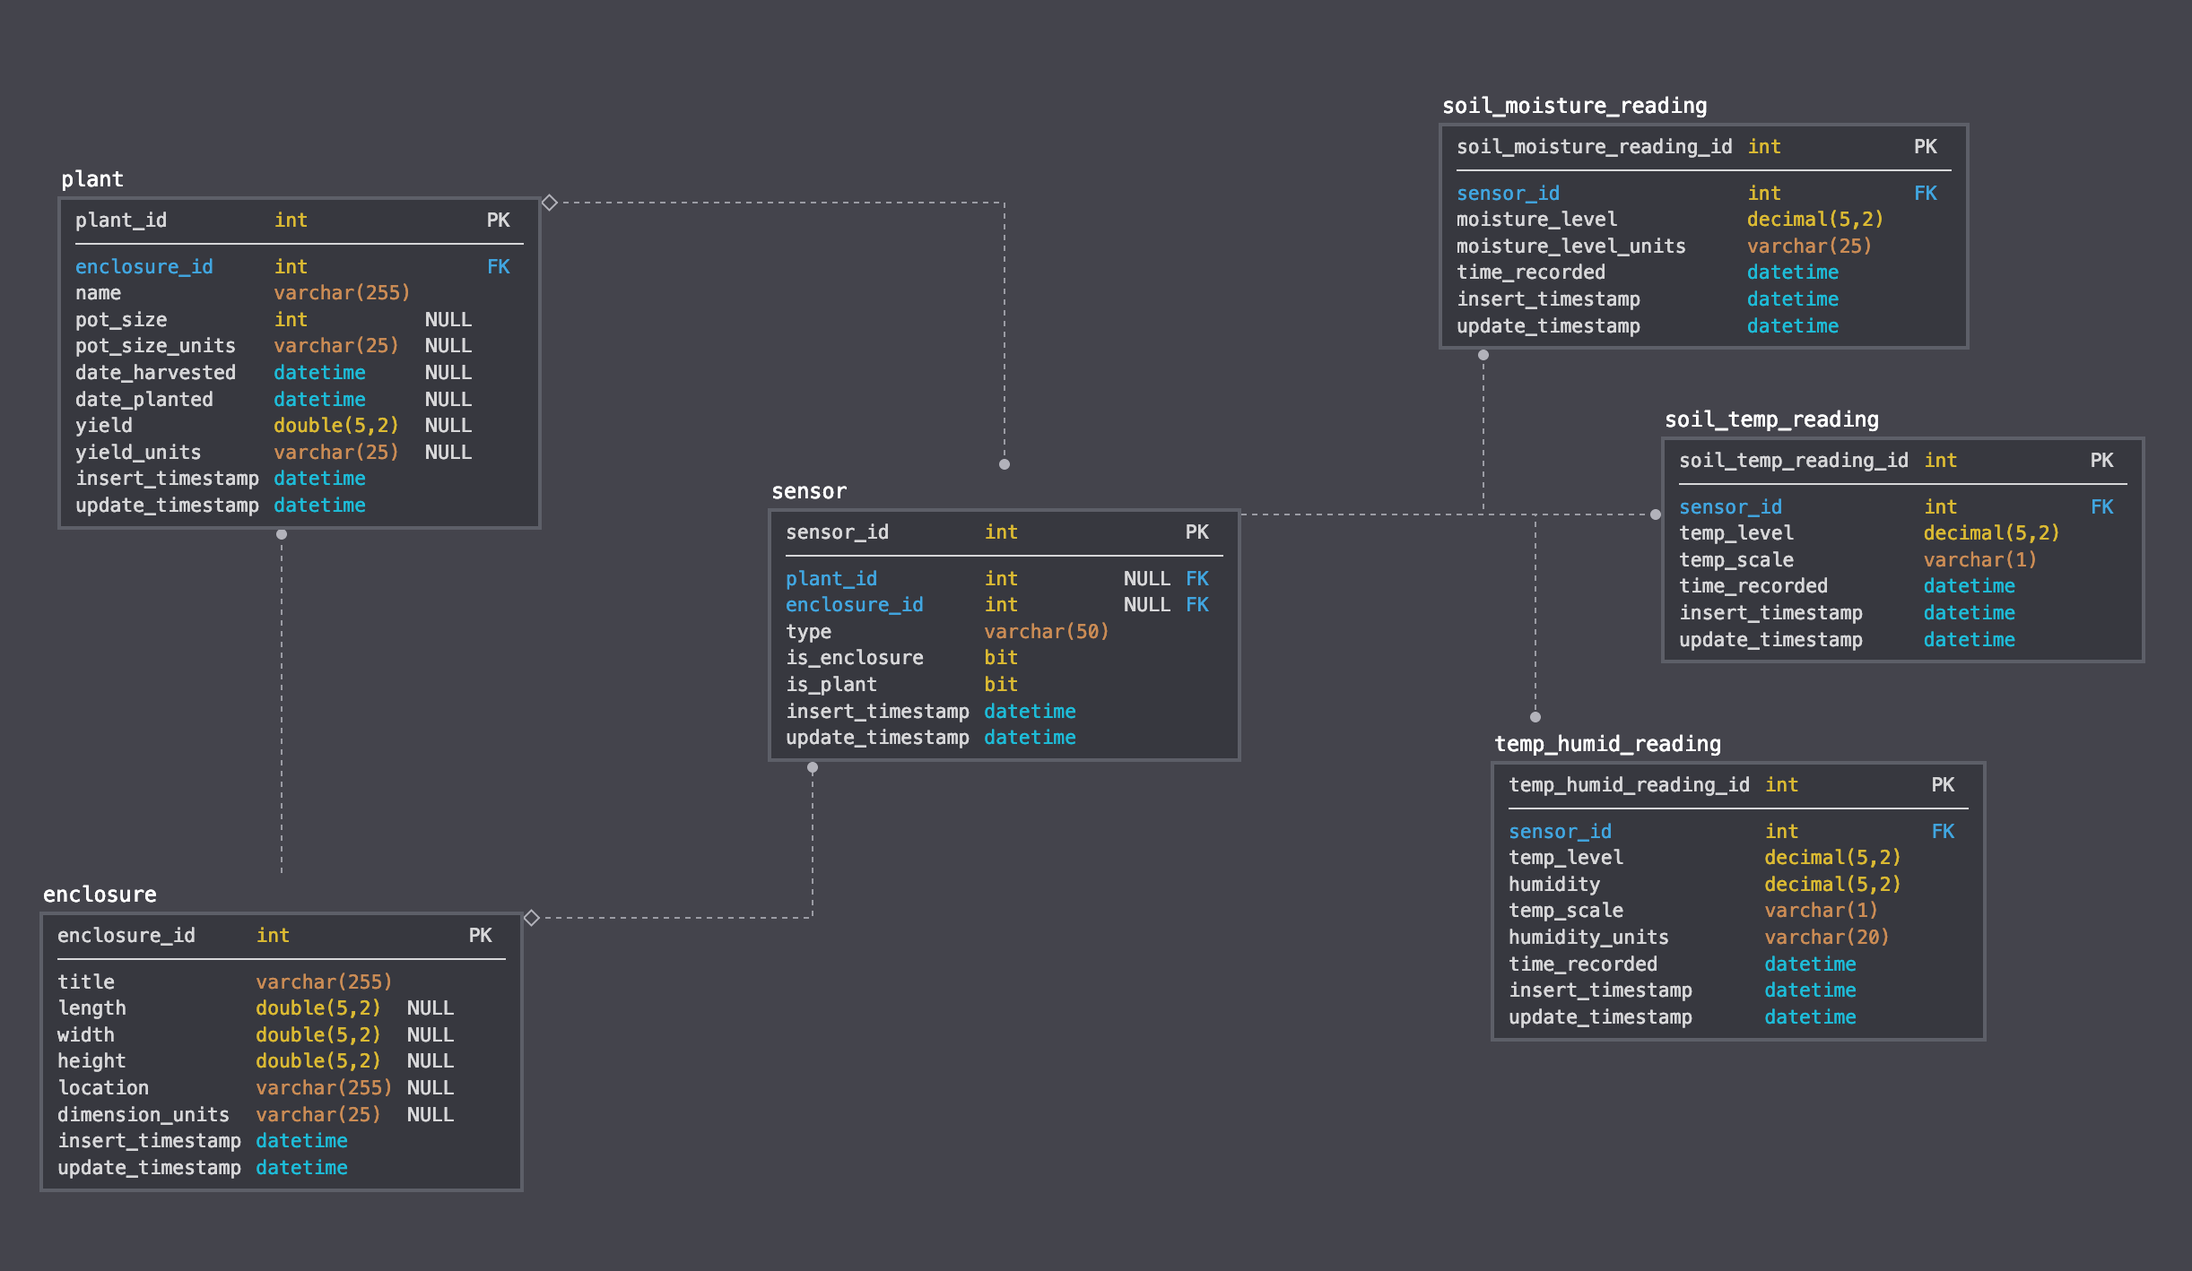
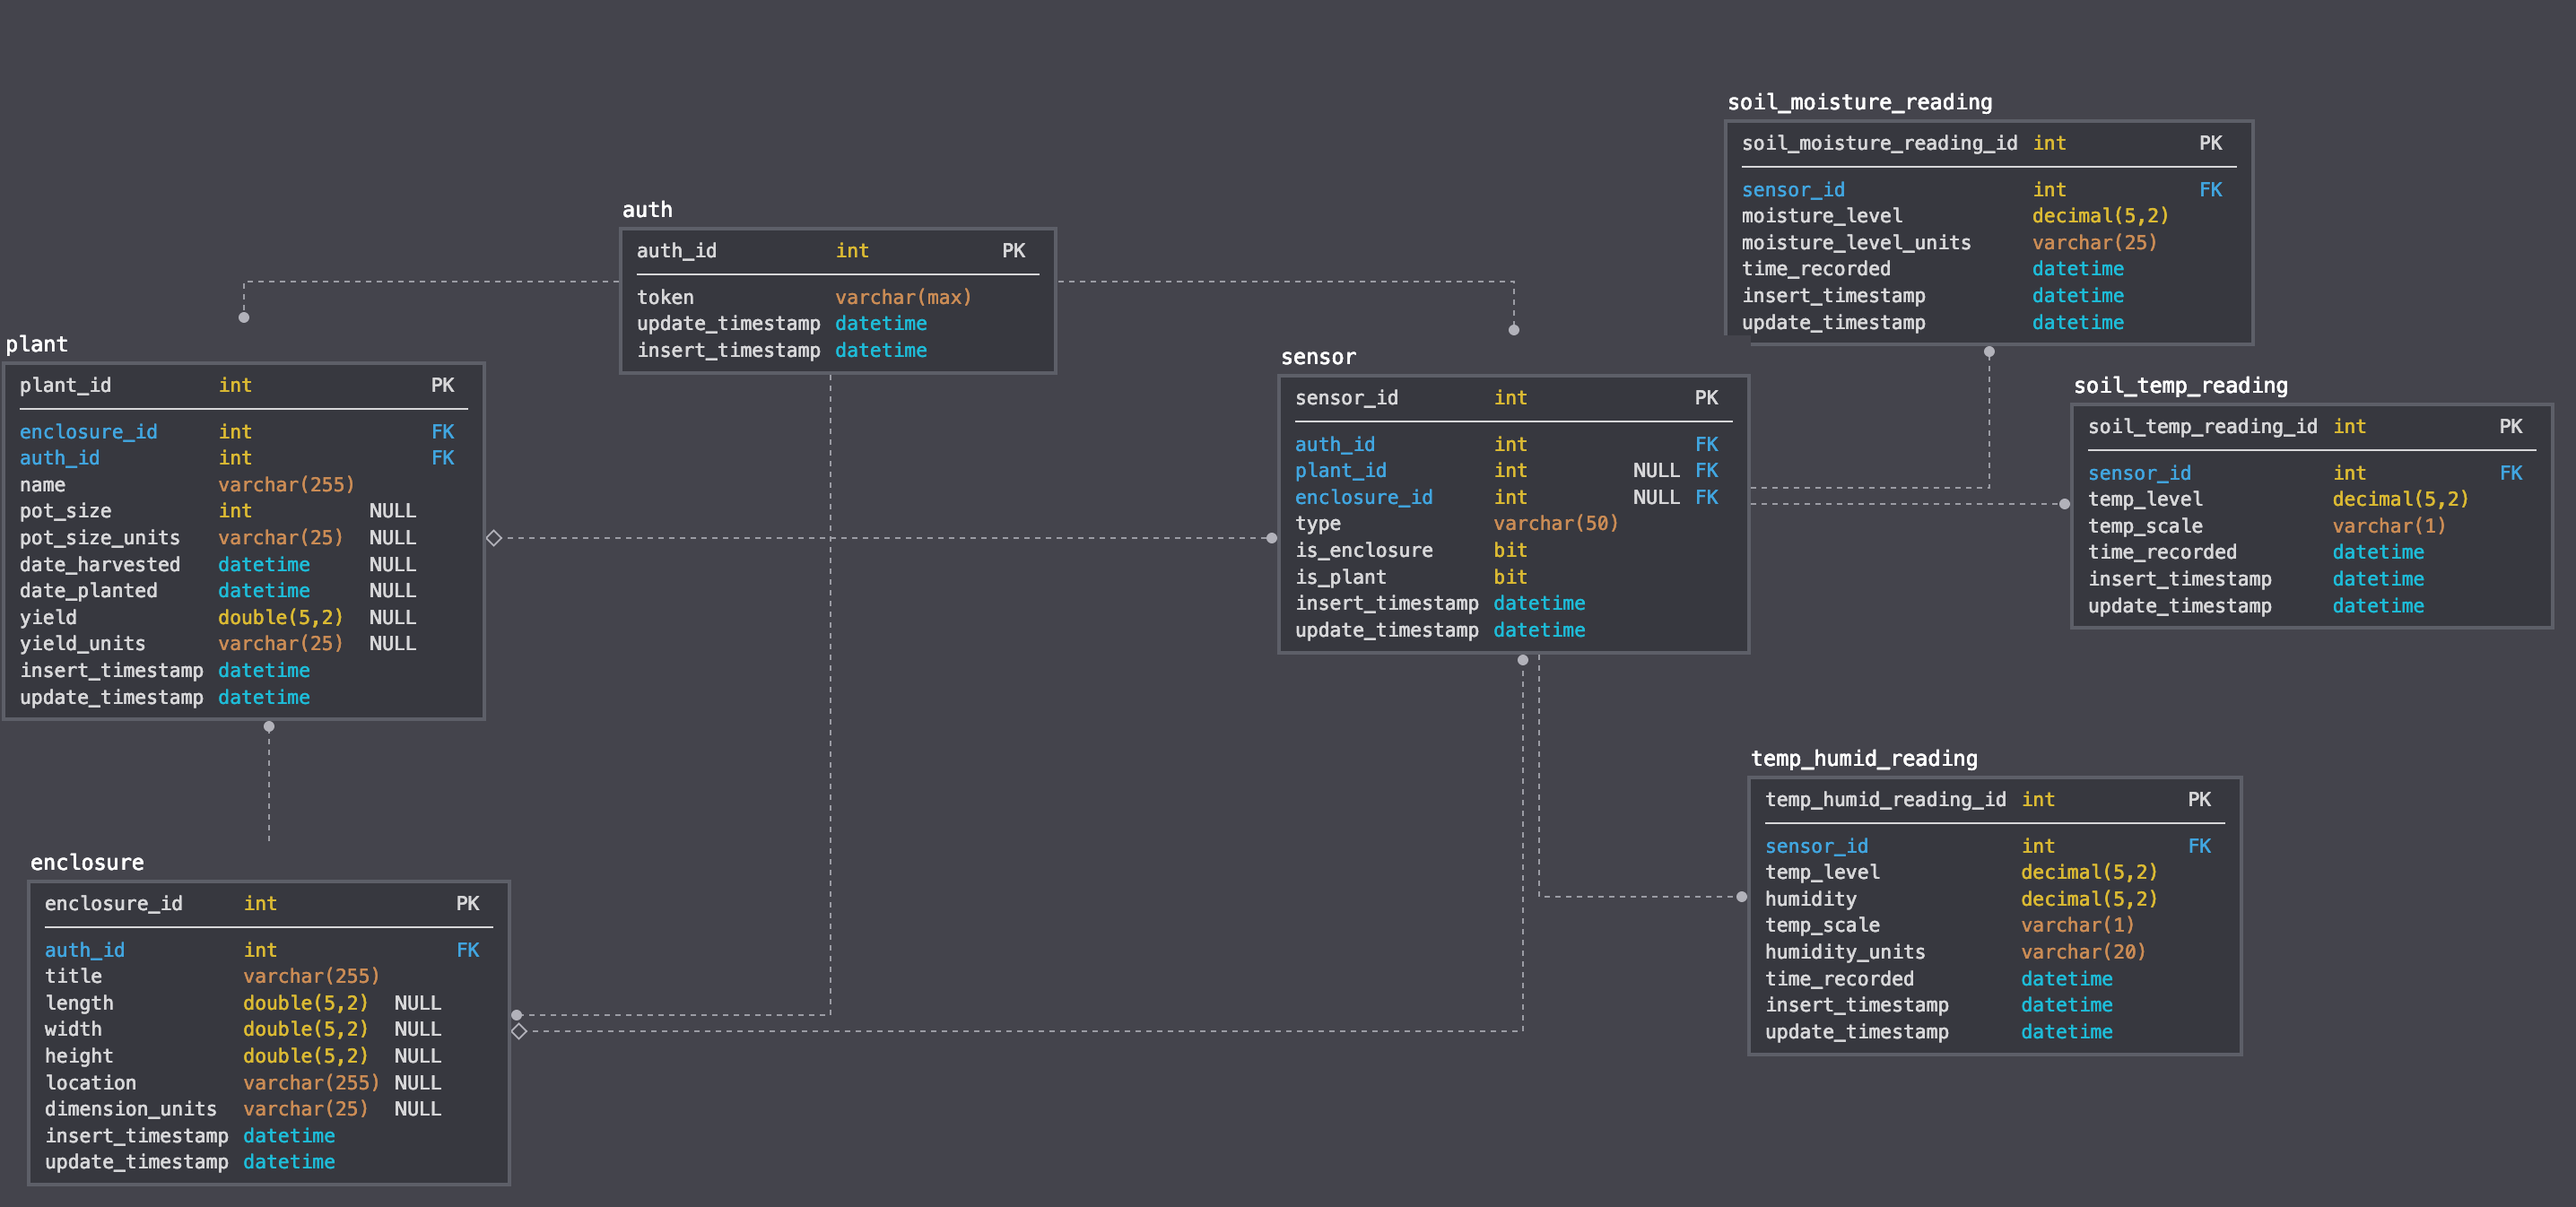
- Added new auth system (integrated into enclosure + plant endpoints) - Removed old auth system

diff --git a/src/main/java/io/colby/modules/routes/enclosures/controller/EnclosureController.java b/src/main/java/io/colby/modules/routes/enclosures/controller/EnclosureController.java
@@ -2,12 +2,9 @@ package io.colby.modules.routes.enclosures.controller;
 
 
 
-import io.colby.modules.auth.MetaID;
-import io.colby.modules.auth.Token;
-import io.colby.modules.auth.model.AuthenticationModel;
-import io.colby.modules.auth.model.AuthorizationModel;
+import io.colby.modules.auth.model.entity.Auth;
+import io.colby.modules.auth.service.AuthService;
 import io.colby.modules.routes.enclosures.model.entity.Enclosure;
-import io.colby.modules.routes.plants.model.entity.Plant;
 import io.colby.modules.routes.enclosures.repository.EnclosureRepository;
 import io.colby.modules.routes.plants.model.repository.PlantRepository;
 import org.springframework.beans.factory.annotation.Autowired;
@@ -16,7 +13,7 @@ import org.springframework.web.bind.annotation.*;
 
 import javax.servlet.http.HttpServletResponse;
 import javax.validation.Valid;
-import javax.validation.constraints.NotBlank;
+import java.util.List;
 import java.util.Optional;
 import java.util.concurrent.CompletableFuture;
 
@@ -33,6 +30,9 @@ public class EnclosureController {
     @Autowired
     PlantRepository plantRepository;
 
+    @Autowired
+    AuthService authService;
+
     @RequestMapping(value = {"/enclosures/{id}"},
             method = RequestMethod.GET)
     @ResponseBody
@@ -43,19 +43,14 @@ public class EnclosureController {
             HttpServletResponse response
     ) {
 
-        @NotBlank(message = "Authorization header cannot be blank")
-        String tokenParam = auth;
+        Optional<Auth> authRec = authService.getFromToken(auth);
 
-        Token token = new Token(tokenParam);
-        MetaID metaId = new AuthenticationModel().getFromToken(token);
-
-        if (!metaId.doesExist()) {
+        if (!authRec.isPresent()){
             response.setStatus(HttpServletResponse.SC_BAD_REQUEST);
             return CompletableFuture.completedFuture(null);
         }
 
-        //TODO find a way to check for access through meta id(?)
-        if (!new AuthorizationModel().userHaveAccessToEnclosure(metaId, id)) {
+        if (authService.userHasAccessToEnclosure(authRec.get(), id)) {
             response.setStatus(HttpServletResponse.SC_UNAUTHORIZED);
             return CompletableFuture.completedFuture(null);
         }
@@ -71,37 +66,25 @@ public class EnclosureController {
 
     }
 
-//    @RequestMapping(value = {"/enclosures"},
-//            method = RequestMethod.GET)
-//    @ResponseBody
-//    @Async("asyncExecutor")
-//    public CompletableFuture<Enclosure> getAllEnclosures(
-//            @RequestHeader(value = "Authorization") String auth,
-//            HttpServletResponse response
-//    ) {
-//
-//        @NotBlank(message = "Authorization header cannot be blank")
-//        String tokenParam = auth;
-//
-//        Token token = new Token(tokenParam);
-//        MetaID metaId = new AuthenticationModel().getFromToken(token);
-//
-//        if (!metaId.doesExist()) {
-//            response.setStatus(HttpServletResponse.SC_BAD_REQUEST);
-//            return CompletableFuture.completedFuture(null);
-//        }
-//
-//        //TODO findAll associated with metaId once auth module is built
-//        Optional<Enclosure> enclosureSearch = enclosureRepository.findAll();
-//
-//        if (!enclosureSearch.isPresent()){
-//            response.setStatus(HttpServletResponse.SC_NOT_FOUND);
-//            return CompletableFuture.completedFuture(null);
-//        }
-//
-//        return CompletableFuture.completedFuture(enclosureSearch.get());
-//
-//    }
+    @RequestMapping(value = {"/enclosures"},
+            method = RequestMethod.GET)
+    @ResponseBody
+    @Async("asyncExecutor")
+    public CompletableFuture<List<Enclosure>> getAllEnclosures(
+            @RequestHeader(value = "Authorization") String auth,
+            HttpServletResponse response
+    ) {
+
+        Optional<Auth> authRec = authService.getFromToken(auth);
+
+        if (!authRec.isPresent()){
+            response.setStatus(HttpServletResponse.SC_BAD_REQUEST);
+            return CompletableFuture.completedFuture(null);
+        }
+
+        return CompletableFuture.completedFuture(authRec.get().getEnclosures());
+
+    }
 
 
     @RequestMapping(value = {"/enclosures"},
@@ -116,16 +99,15 @@ public class EnclosureController {
             HttpServletResponse response
     ) {
 
-        @NotBlank(message = "Authorization header cannot be blank")
-        String tokenParam = auth;
+        Optional<Auth> authRec = authService.getFromToken(auth);
 
-        Token token = new Token(tokenParam);
-        MetaID metaId = new AuthenticationModel().getFromToken(token);
-
-        if (!metaId.doesExist()) {
+        if (!authRec.isPresent()){
             response.setStatus(HttpServletResponse.SC_BAD_REQUEST);
             return CompletableFuture.completedFuture(null);
         }
+
+        //TODO for other post requests
+        request.setAuthId(authRec.get().getAuthId());
 
         Enclosure enclosure = enclosureRepository.save(request);
         Optional<Enclosure> optionalEnclosure = enclosureRepository.findByEnclosureId(enclosure.getEnclosureId());
@@ -153,23 +135,14 @@ public class EnclosureController {
     ) {
 
 
-        @NotBlank(message = "Authorization header cannot be blank")
-        String tokenParam = auth;
+        Optional<Auth> authRec = authService.getFromToken(auth);
 
-        if (auth.isEmpty()) {
+        if (!authRec.isPresent()){
             response.setStatus(HttpServletResponse.SC_BAD_REQUEST);
             return CompletableFuture.completedFuture(null);
         }
 
-        Token token = new Token(tokenParam);
-        MetaID metaId = new AuthenticationModel().getFromToken(token);
-
-        if (!metaId.doesExist()) {
-            response.setStatus(HttpServletResponse.SC_BAD_REQUEST);
-            return CompletableFuture.completedFuture(null);
-        }
-
-        if (!new AuthorizationModel().userHaveAccessToEnclosure(metaId, id)) {
+        if (!authService.userHasAccessToEnclosure(authRec.get(), id)) {
             response.setStatus(HttpServletResponse.SC_UNAUTHORIZED);
             return CompletableFuture.completedFuture(null);
         }

diff --git a/src/main/java/io/colby/modules/routes/plants/controller/PlantController.java b/src/main/java/io/colby/modules/routes/plants/controller/PlantController.java
@@ -1,11 +1,8 @@
 package io.colby.modules.routes.plants.controller;
 
 
-import io.colby.modules.auth.MetaID;
-import io.colby.modules.auth.Token;
-import io.colby.modules.auth.model.AuthenticationModel;
-import io.colby.modules.auth.model.AuthorizationModel;
-import io.colby.modules.routes.enclosures.model.entity.Enclosure;
+import io.colby.modules.auth.model.entity.Auth;
+import io.colby.modules.auth.service.AuthService;
 import io.colby.modules.routes.plants.model.entity.Plant;
 import io.colby.modules.routes.plants.model.repository.PlantRepository;
 import org.springframework.beans.factory.annotation.Autowired;
@@ -14,7 +11,6 @@ import org.springframework.web.bind.annotation.*;
 
 import javax.servlet.http.HttpServletResponse;
 import javax.validation.Valid;
-import javax.validation.constraints.NotBlank;
 import java.util.List;
 import java.util.Optional;
 import java.util.concurrent.CompletableFuture;
@@ -31,6 +27,9 @@ public class PlantController {
     @Autowired
     PlantRepository plantRepository;
 
+    @Autowired
+    AuthService authService;
+
     @RequestMapping(value = {"/plants/{id}"},
             method = RequestMethod.GET)
     @ResponseBody
@@ -41,16 +40,15 @@ public class PlantController {
             HttpServletResponse response
     ) {
 
-        Token token = new Token(auth);
-        MetaID metaId = new AuthenticationModel().getFromToken(token);
+        Optional<Auth> authRec = authService.getFromToken(auth);
 
-        if (!metaId.doesExist()) {
+        if (!authRec.isPresent()){
             response.setStatus(HttpServletResponse.SC_BAD_REQUEST);
             return CompletableFuture.completedFuture(null);
         }
 
 //        TODO change to repo
-        if (!new AuthorizationModel().userHaveAccessToEnclosure(metaId, id)) {
+        if (authService.userHasAccessToPlant(authRec.get(), id)) {
             response.setStatus(HttpServletResponse.SC_UNAUTHORIZED);
             return CompletableFuture.completedFuture(null);
         }
@@ -66,33 +64,26 @@ public class PlantController {
 
     }
 
-    //TODO add back in once auth completed
-//    @RequestMapping(value = {"/plants"},
-//            method = RequestMethod.GET)
-//    @ResponseBody
-//    @Async("asyncExecutor")
-//    public CompletableFuture<List<Plant>> getAllPlants(
-//            @RequestHeader(value = "Authorization") String auth,
-//            HttpServletResponse response
-//    ) {
-//
-//        @NotBlank(message = "Authorization header cannot be blank")
-//        String tokenParam = auth;
-//
-//        Token token = new Token(tokenParam);
-//        MetaID metaId = new AuthenticationModel().getFromToken(token);
-//
-//        if (!metaId.doesExist()) {
-//            response.setStatus(HttpServletResponse.SC_BAD_REQUEST);
-//            return CompletableFuture.completedFuture(null);
-//        }
-//
-////        TODO in auth or meta repo, get list of all enclosures associated with token/meta id. Then iterate and find
-//
-//
-//        return CompletableFuture.completedFuture(plantRepository.findAll());
-//
-//    }
+//    TODO add back in once auth completed
+    @RequestMapping(value = {"/plants"},
+            method = RequestMethod.GET)
+    @ResponseBody
+    @Async("asyncExecutor")
+    public CompletableFuture<List<Plant>> getAllPlants(
+            @RequestHeader(value = "Authorization") String auth,
+            HttpServletResponse response
+    ) {
+
+        Optional<Auth> authRec = authService.getFromToken(auth);
+
+        if (!authRec.isPresent()){
+            response.setStatus(HttpServletResponse.SC_BAD_REQUEST);
+            return CompletableFuture.completedFuture(null);
+        }
+
+        return CompletableFuture.completedFuture(authRec.get().getPlants());
+
+    }
 
 
     @RequestMapping(value = {"/plants"},
@@ -107,13 +98,9 @@ public class PlantController {
             HttpServletResponse response
     ) {
 
-        @NotBlank(message = "Authorization header cannot be blank")
-        String tokenParam = auth;
+        Optional<Auth> authRec = authService.getFromToken(auth);
 
-        Token token = new Token(tokenParam);
-        MetaID metaId = new AuthenticationModel().getFromToken(token);
-
-        if (!metaId.doesExist()) {
+        if (!authRec.isPresent()){
             response.setStatus(HttpServletResponse.SC_BAD_REQUEST);
             return CompletableFuture.completedFuture(null);
         }
@@ -141,24 +128,14 @@ public class PlantController {
             HttpServletResponse response
     ) {
 
+        Optional<Auth> authRec = authService.getFromToken(auth);
 
-        @NotBlank(message = "Authorization header cannot be blank")
-        String tokenParam = auth;
-
-        if (auth.isEmpty()) {
+        if (!authRec.isPresent()){
             response.setStatus(HttpServletResponse.SC_BAD_REQUEST);
             return CompletableFuture.completedFuture(null);
         }
 
-        Token token = new Token(tokenParam);
-        MetaID metaId = new AuthenticationModel().getFromToken(token);
-
-        if (!metaId.doesExist()) {
-            response.setStatus(HttpServletResponse.SC_BAD_REQUEST);
-            return CompletableFuture.completedFuture(null);
-        }
-
-        if (!new AuthorizationModel().userHaveAccessToEnclosure(metaId, id)) {
+        if (authService.userHasAccessToPlant(authRec.get(), id)) {
             response.setStatus(HttpServletResponse.SC_UNAUTHORIZED);
             return CompletableFuture.completedFuture(null);
         }

diff --git a/src/main/java/io/colby/modules/auth/service/AuthService.java b/src/main/java/io/colby/modules/auth/service/AuthService.java
@@ -4,6 +4,7 @@ import io.colby.modules.auth.model.entity.Auth;
 import io.colby.modules.auth.model.repository.AuthRepository;
 import io.colby.modules.routes.enclosures.model.entity.Enclosure;
 import io.colby.modules.routes.enclosures.repository.EnclosureRepository;
+import io.colby.modules.routes.plants.model.entity.Plant;
 import org.springframework.beans.factory.annotation.Autowired;
 import org.springframework.stereotype.Service;
 
@@ -26,19 +27,21 @@ public class AuthService implements AuthServiceI{
     }
 
     @Override
-    public boolean userHaveAccessToEnclosure(Auth auth, int enclosureId) {
+    public boolean userHasAccessToEnclosure(Auth auth, int enclosureId) {
 
-        Optional<Enclosure> encOpt = enclosureRepository.findByEnclosureId(enclosureId);
+        Optional<Enclosure> enclosure = auth.getEnclosures().stream()
+                .filter(x -> x.getEnclosureId() == enclosureId).findFirst();
 
-        if (!encOpt.isPresent())
-            return false;
-//
-//        for (Enclosure enc : auth.getEnclosures()){
-//            if (enc.getEnclosureId() == enclosureId)
-//                return true;
-//        }
+        return enclosure.isPresent();
+    }
 
-        return false;
+    @Override
+    public boolean userHasAccessToPlant(Auth auth, int plantId) {
+
+        Optional<Plant> plant = auth.getPlants().stream()
+                .filter(x -> x.getPlantId() == plantId).findFirst();
+
+        return plant.isPresent();
     }
 
 }

diff --git a/src/main/java/io/colby/modules/auth/service/AuthServiceI.java b/src/main/java/io/colby/modules/auth/service/AuthServiceI.java
@@ -1,7 +1,6 @@
 package io.colby.modules.auth.service;
 
 import io.colby.modules.auth.model.entity.Auth;
-import org.springframework.stereotype.Service;
 
 import java.util.Optional;
 
@@ -11,5 +10,7 @@ public interface AuthServiceI {
 
     Optional<Auth> getFromToken(String token);
 
-    boolean userHaveAccessToEnclosure(Auth auth, int id);
+    boolean userHasAccessToEnclosure(Auth auth, int id);
+
+    boolean userHasAccessToPlant(Auth auth, int id);
 }

diff --git a/src/main/java/io/colby/modules/auth/route/AuthController.java b/src/main/java/io/colby/modules/auth/route/AuthController.java
@@ -2,8 +2,6 @@ package io.colby.modules.auth.route;
 
 import io.colby.modules.auth.model.entity.Auth;
 import io.colby.modules.auth.model.repository.AuthRepository;
-import io.colby.modules.auth.service.AuthService;
-import io.colby.modules.routes.enclosures.model.entity.Enclosure;
 import org.springframework.beans.factory.annotation.Autowired;
 import org.springframework.scheduling.annotation.Async;
 import org.springframework.web.bind.annotation.*;

diff --git a/src/main/java/io/colby/modules/routes/enclosures/repository/EnclosureRepository.java b/src/main/java/io/colby/modules/routes/enclosures/repository/EnclosureRepository.java
@@ -4,7 +4,6 @@ import io.colby.modules.routes.enclosures.model.entity.Enclosure;
 import org.springframework.data.repository.CrudRepository;
 import org.springframework.stereotype.Repository;
 
-import java.util.List;
 import java.util.Optional;
 
 @Repository

diff --git a/src/main/java/io/colby/modules/routes/enclosures/model/entity/Enclosure.java b/src/main/java/io/colby/modules/routes/enclosures/model/entity/Enclosure.java
@@ -24,7 +24,6 @@ import java.util.List;
 @Table(name="enclosure")
 public class Enclosure {
 
-
     @Id
     @GeneratedValue(strategy = GenerationType.IDENTITY)
     @Column(name = "enclosure_id", nullable = false, updatable = false)
